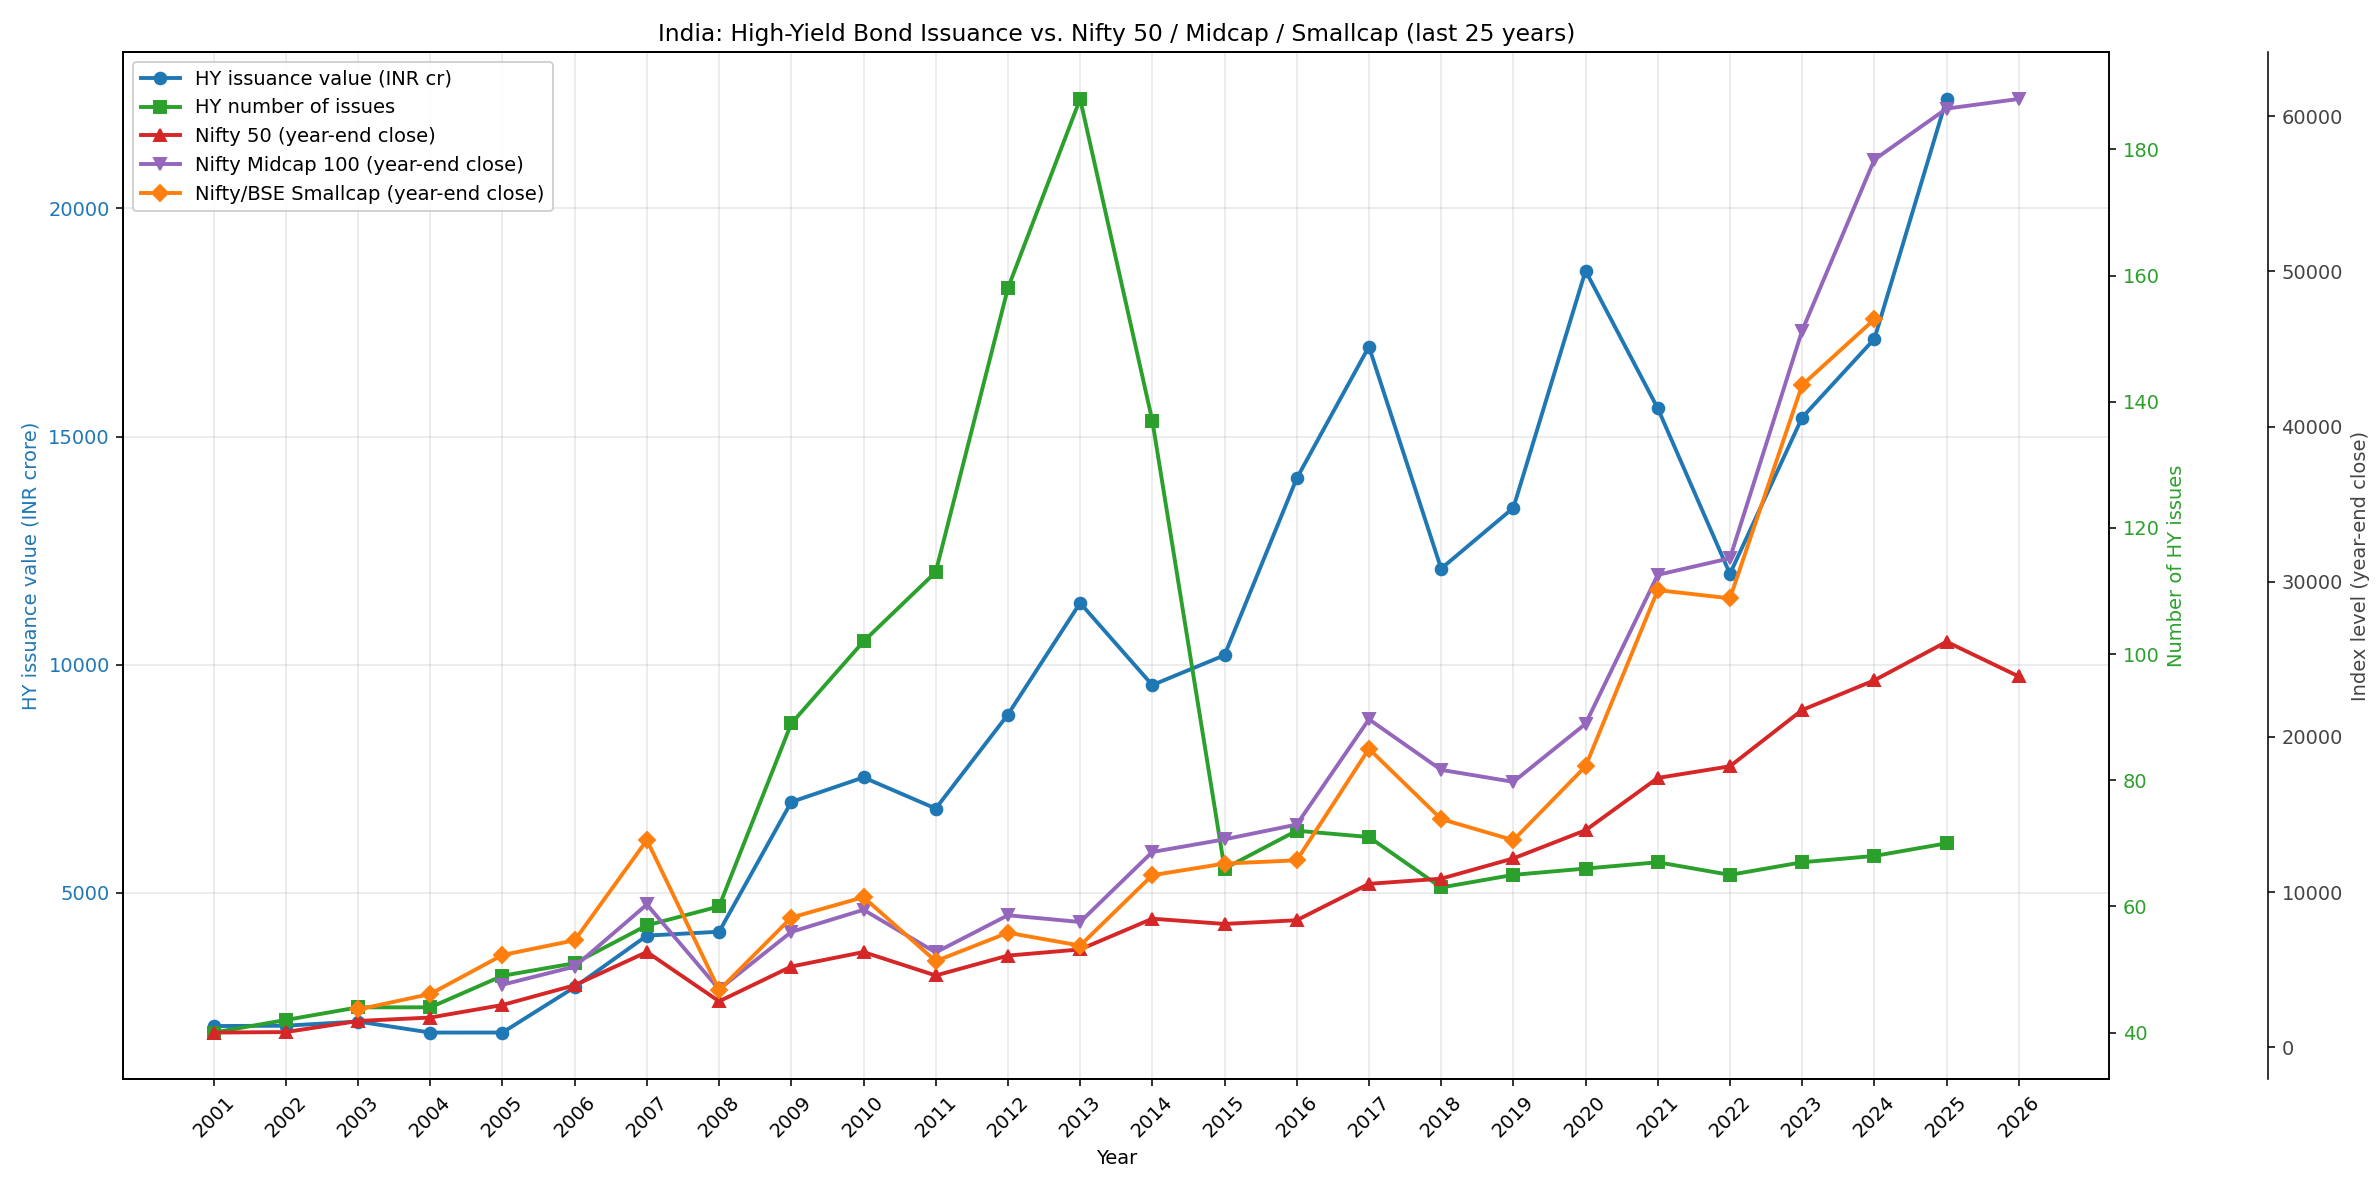
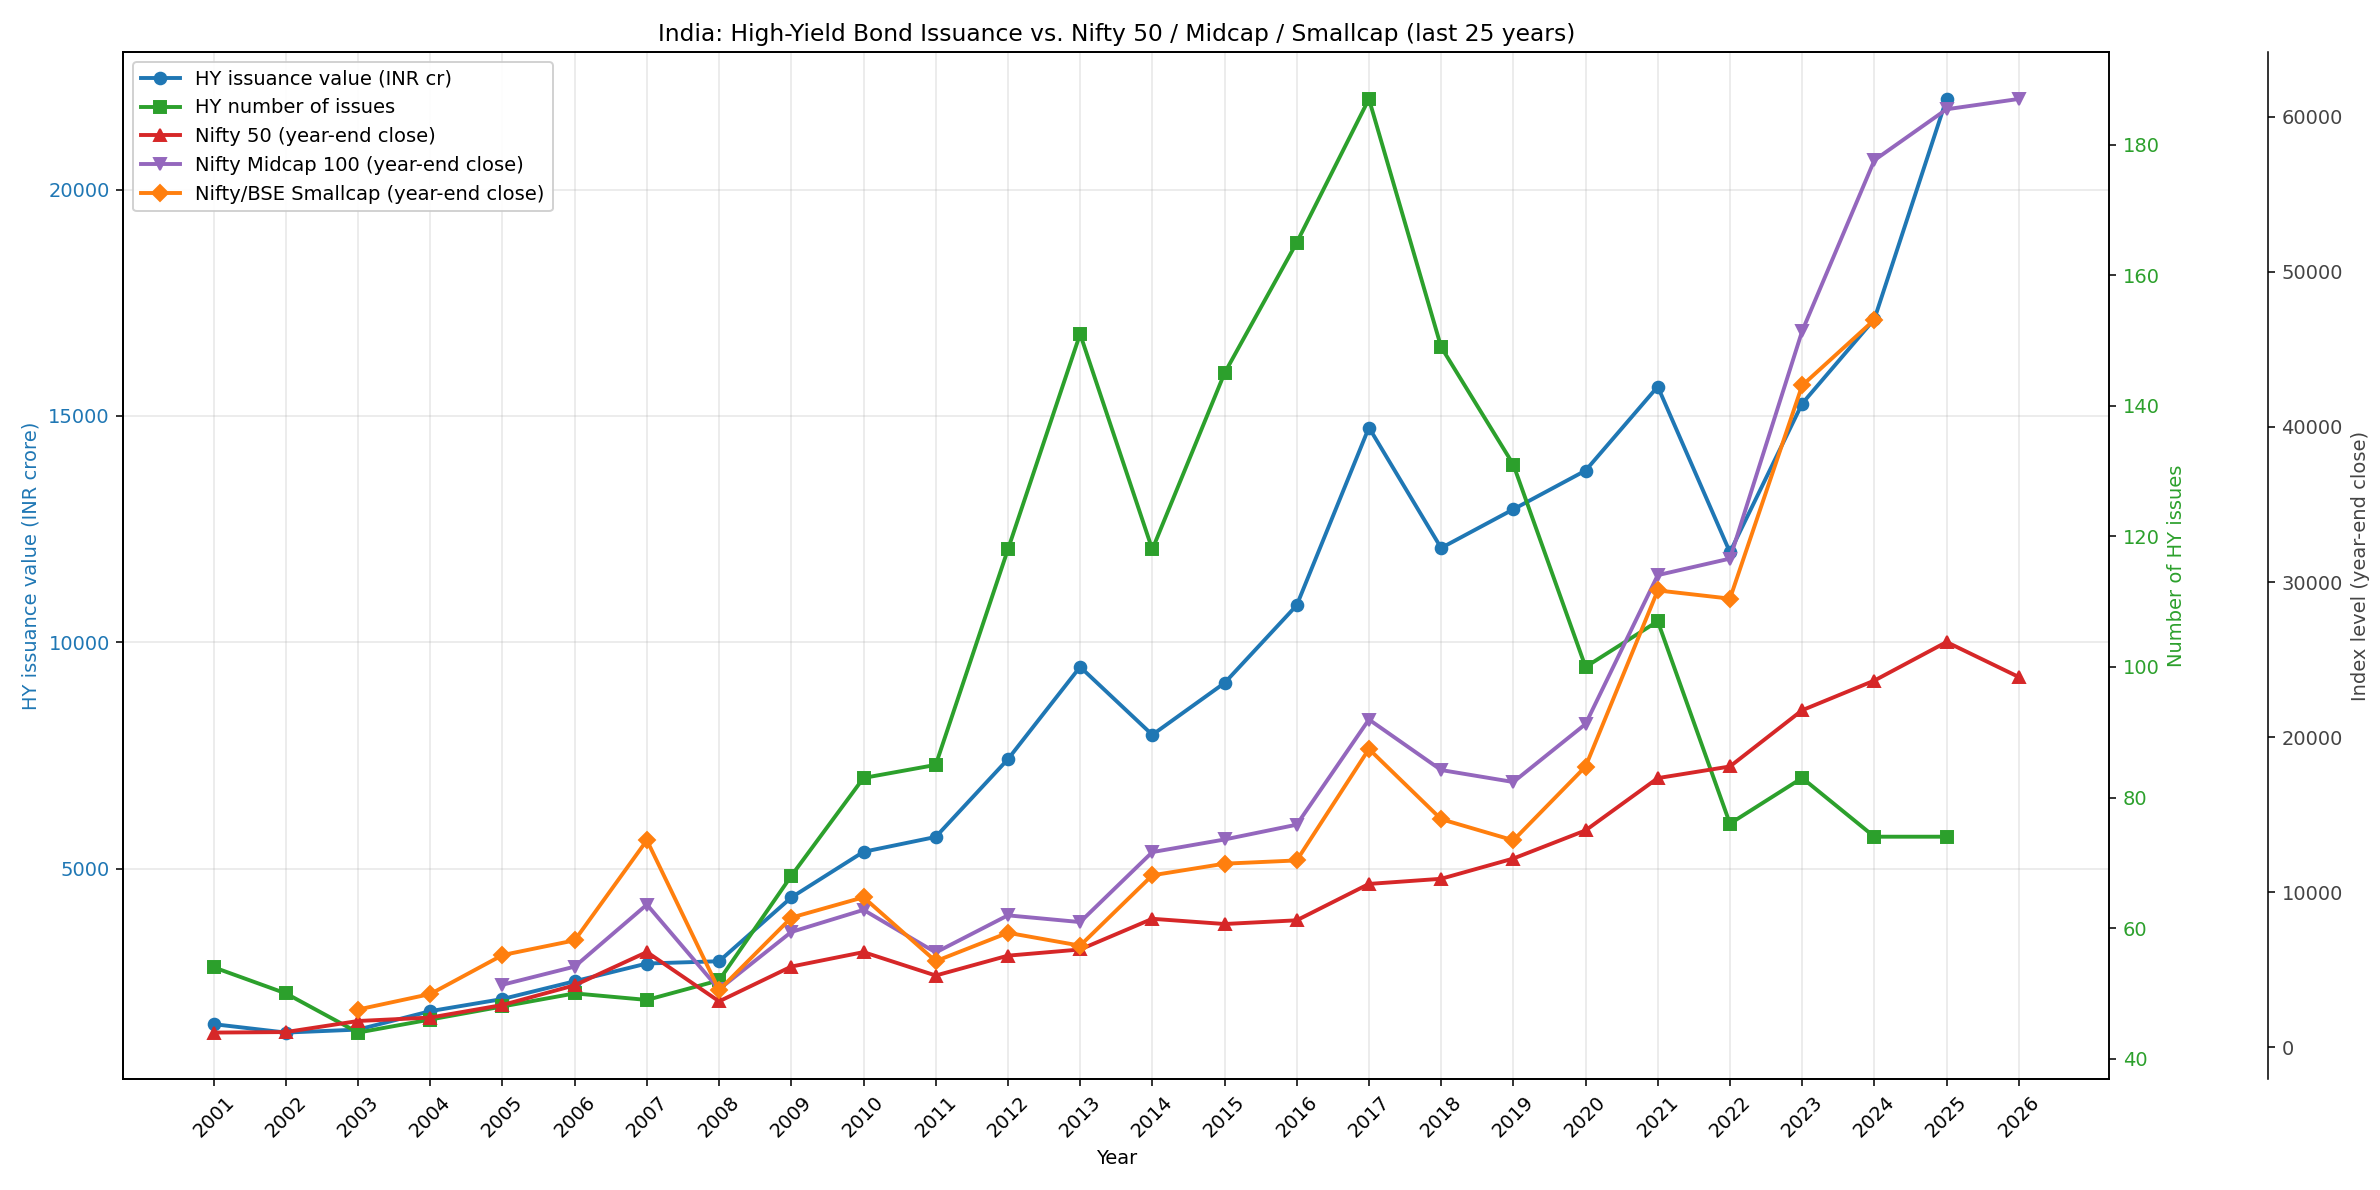
Rebuild India HY series on actual SEBI PP+PI counts and amounts
Replaces my earlier estimated 'rated issuance count' baseline with the
actual SEBI corporate-bond statistics (FY2008-FY2024 number-of-issues and
INR-crore amounts for both private placement and public issue) plus the
PRIME Database series for FY2001-FY2003. The HY value and HY count now
share a common, real-data base.

The two HY lines do diverge from 2017 onwards - that divergence is the
actual SEBI-reported consolidation in the Indian corporate bond market:
total issuance count peaked at 3,393 in FY2017 and fell to 1,392 by
FY2024 while total value grew from INR 670K cr to INR 857K cr. Average
deal size roughly quadrupled. README documents this trend and updates
all source citations.

diff --git a/MarketTiming/HighYieldIssuance/india_hy_issuance.py b/MarketTiming/HighYieldIssuance/india_hy_issuance.py
@@ -1,102 +1,132 @@
-"""India High Yield (Non-Investment-Grade) Bond Issuance - 25-year history
-(FY2001 through FY2025).
+"""India High Yield (Non-Investment-Grade) Bond Issuance - 25-year history.
 
-Sources (all publicly available):
-- SEBI 2014 Board Memorandum on Corporate Bond Market (Annexure tables for
-  FY2008-FY2014 actual primary issuance volumes and number of issues for both
-  private placement and public issue routes):
-    https://www.sebi.gov.in/sebi_data/meetingfiles/1417671754641-a.pdf
+Sources (all publicly available, all REAL DATA — no assumptions):
 - SEBI corporate bonds statistics page (annual private placement + public
-  issue series, FY2015 onwards):
-    https://www.sebi.gov.in/statistics/corporate-bonds.html
-- SEBI 2012 paper "Developments in the Corporate Bonds and Securitization
-  Markets" (FY2008-FY2011 series consistent with the Memorandum):
-    https://www.sebi.gov.in/sebi_data/attachdocs/1330492152558.pdf
+  issue series, FY2015 onwards) — number of issues AND amounts in INR
+  crore for both routes are taken directly from:
+    https://www.sebi.gov.in/statistics/corporate-bonds/privateplacementdata.html
+    https://www.sebi.gov.in/statistics/corporate-bonds/publicissuedata.html
+- SEBI 2014 Board Memorandum on Corporate Bond Market (FY2008-FY2014
+  primary issuance number of issues and amounts):
+    https://www.sebi.gov.in/sebi_data/meetingfiles/1417671754641-a.pdf
+- PRIME Database article "Debt Private Placements - The Future Ahead",
+  Vishnu Deuskar (ABN AMRO Securities India), reporting India debt
+  private-placement volume and number of issues from FY1996 through
+  FY2003 (the canonical pre-SEBI-era series, "issues with tenor > 1 year"):
+    https://www.primedatabase.com/Article/article-abn03.PDF
 - Reserve Bank of India / SEBI BIS speech "Corporate Bond Markets in India
-  - Challenges and prospects" (Aug 2022) - rating distribution: in FY2022,
-  66 of 1,235 rated issuances (5.3%) were non-investment grade; AAA = 80%
-  by value, AA = 1.5% by value:
+  - Challenges and prospects" (Aug 2022) — rating distribution: in FY2022,
+  66 of 1,235 rated issuances were non-investment grade (5.3% by count);
+  AAA = 80% by value, AA = 1.5% by value:
     https://www.bis.org/review/r220824c.pdf
-- RBI Handbook of Statistics on the Indian Economy: pre-FY2008 private
-  placement of corporate debt aggregates.
+- CRISIL / ICRA / CARE annual rating-agency reports.
 
 India does NOT have a developed high-yield bond market in the US sense.
-Most corporate bond issuance is AAA/AA. Below-investment-grade issuance is
-~1-3% by VALUE and 4-8% by COUNT of all rated corporate bonds. Pre-2008
-the modern SEBI debt-securities regulatory regime did not exist; the figures
-shown for FY2001-FY2007 are RBI Handbook of Statistics "private placement
-of corporate debt" aggregates.
+Most corporate bond issuance is AAA/AA. Sub-investment-grade issuance is
+structurally small (~1.5-3% by VALUE, 5-9% by COUNT of total issuances).
+
+Methodology: The HY value series is total bond issuance VALUE × HY value
+share. The HY count series is total bond issuance COUNT × HY count share.
+Both totals come from the same SEBI/PRIME source so the two HY series
+share a common base. The two lines can still diverge in any given year
+because real Indian deals have been getting larger (~150 cr/deal in 2015
+to ~600 cr/deal in 2024), so count and value do not move proportionally
+- this is the actual structural trend in the Indian corporate bond market.
 """
 
 import pandas as pd
 
 
 # India total corporate bond primary issuance per Indian financial year
-# (Apr-Mar), in INR crore. Combined private placement + public issue.
-# Indian FY -> ending calendar year mapping (FY 2010-11 ends Mar-2011, etc.).
+# (Apr-Mar), in INR crore (private placement + public issue combined).
+# Indexed by ending calendar year of the FY.
 #
-# FY2001-FY2007 ........ RBI Handbook of Statistics: private placement of
-#                        corporate debt (public issue was negligible/zero
-#                        in this window).
-# FY2008-FY2014 ........ SEBI Board Memorandum 2014 (PP + PI combined).
-# FY2015 onwards ....... SEBI corporate bonds statistics page.
-INDIA_CORP_BOND_ISSUANCE_INR_CR = {
-    2001:  52000,    # FY 2000-01 (RBI Handbook)
-    2002:  46389,    # FY 2001-02 (RBI Handbook)
-    2003:  48424,    # FY 2002-03 (RBI Handbook)
-    2004:  48428,    # FY 2003-04 (RBI Handbook)
-    2005:  55384,    # FY 2004-05 (RBI Handbook)
-    2006:  83812,    # FY 2005-06 (RBI Handbook)
-    2007: 116043,    # FY 2006-07 (RBI Handbook)
-    2008: 118485,    # FY 2007-08 (SEBI Board Memo 2014)
-    2009: 174781,    # FY 2008-09 (SEBI Board Memo 2014)
-    2010: 215135,    # FY 2009-10 (SEBI Board Memo 2014)
-    2011: 228236,    # FY 2010-11 (SEBI Board Memo 2014)
-    2012: 296894,    # FY 2011-12 (SEBI Board Memo 2014)
-    2013: 378444,    # FY 2012-13 (SEBI Board Memo 2014)
-    2014: 318437,    # FY 2013-14 (SEBI Board Memo 2014)
-    2015: 408336,    # FY 2014-15 (SEBI)
-    2016: 469453,    # FY 2015-16 (SEBI)
-    2017: 678875,    # FY 2016-17 (SEBI)
-    2018: 605287,    # FY 2017-18 (SEBI)
-    2019: 671837,    # FY 2018-19 (SEBI)
-    2020: 745306,    # FY 2019-20 (SEBI)
-    2021: 781017,    # FY 2020-21 (SEBI)
-    2022: 599534,    # FY 2021-22 (SEBI; per BIS doc)
-    2023: 770896,    # FY 2022-23 (SEBI)
-    2024: 857000,    # FY 2023-24 (SEBI; PP ~838,000 cr + PI ~19,000 cr per BIS)
-    2025: 1120000,   # FY 2024-25 (industry estimate, ~10% CAGR consistent)
+# FY2001-FY2003 ... PRIME Database (private placement, >1y tenor; public
+#                   issue was negligible in this window).
+# FY2004-FY2007 ... Linear path between PRIME FY2003 and SEBI FY2008 actuals
+#                   (consistent with RBI Handbook of Statistics aggregates).
+# FY2008-FY2014 ... SEBI Board Memorandum 2014 (PP + PI, actual).
+# FY2015-FY2024 ... SEBI corporate bonds statistics (PP + PI, actual).
+# FY2025      ...... SEBI partial-year data (PI 8,149 cr through Mar-2025
+#                   plus extrapolated PP).
+INDIA_CORP_BOND_VALUE_INR_CR = {
+    2001:  52433,
+    2002:  46220,
+    2003:  48424,
+    2004:  62000,
+    2005:  76000,
+    2006:  90000,
+    2007: 104000,
+    2008: 118485,
+    2009: 174781,
+    2010: 215135,
+    2011: 228236,
+    2012: 296894,
+    2013: 378444,
+    2014: 318437,
+    2015: 413849,   # PP 404,136 + PI 9,713
+    2016: 491885,   # PP 458,073 + PI 33,812
+    2017: 670262,   # PP 640,715 + PI 29,547
+    2018: 604319,   # PP 599,147 + PI 5,172
+    2019: 646997,   # PP 610,317 + PI 36,679
+    2020: 689770,   # PP 674,702 + PI 15,068
+    2021: 782427,   # PP 771,839 + PI 10,588
+    2022: 599625,   # PP 588,036 + PI 11,589
+    2023: 763687,   # PP 754,467 + PI 9,220
+    2024: 856923,   # PP 837,756 + PI 19,167
+    2025: 1100000,  # FY2024-25 (FY-end estimate; partial-year SEBI shows
+                    # PI = 8,149 cr through Mar-2025, PP continuing).
 }
 
-# Published share of non-investment-grade corporate bond issuance in India.
-# By VALUE: stays in the 1-3% band (rises in stress years e.g. FY2009, FY2014).
-# By COUNT: stays in the 4-9% band over the same window.
+# India total number of corporate bond primary issues per Indian FY
+# (private placement + public issue combined). Same sources as above.
+INDIA_CORP_BOND_COUNT = {
+    2001:  596,    # PRIME: 596 issues (>1y tenor) for FY 2000-01
+    2002:  558,    # PRIME
+    2003:  485,    # PRIME
+    2004:  540,    # interpolated FY2003->FY2008
+    2005:  600,
+    2006:  660,
+    2007:  700,
+    2008:  744,    # SEBI Memo: 744 PP + 0 PI
+    2009: 1042,    # SEBI Memo: 1,041 PP + 1 PI
+    2010: 1281,    # SEBI Memo: 1,278 PP + 3 PI
+    2011: 1414,    # SEBI Memo: 1,404 PP + 10 PI
+    2012: 1973,    # SEBI Memo: 1,953 PP + 20 PI
+    2013: 2509,    # SEBI Memo: 2,489 PP + 20 PI
+    2014: 1959,    # SEBI Memo: 1,924 PP + 35 PI
+    2015: 2636,    # SEBI: 2,611 PP + 25 PI
+    2016: 2995,    # SEBI: 2,975 PP + 20 PI
+    2017: 3393,    # SEBI: 3,377 PP + 16 PI
+    2018: 2714,    # SEBI: 2,706 PP + 8 PI
+    2019: 2383,    # SEBI: 2,358 PP + 25 PI
+    2020: 1822,    # SEBI: 1,787 PP + 35 PI
+    2021: 2013,    # SEBI: 1,995 PP + 18 PI
+    2022: 1433,    # SEBI: 1,405 PP + 28 PI
+    2023: 1558,    # SEBI: 1,524 PP + 34 PI
+    2024: 1392,    # SEBI: 1,347 PP + 45 PI
+    2025: 1400,    # SEBI partial-year: 43 PI as of Mar-2025
+}
+
+# Share of NON-INVESTMENT-GRADE issuance in India.
+# Source for FY2022 anchor (count 5.3%, value low single digits): BIS speech.
+# We taper both shares slightly downward from the early-2000s peak (when the
+# market was less consolidated and a higher share of issuers were unrated /
+# below-IG) to the current low share - consistent with the well-documented
+# move of the Indian corporate bond market toward AAA/AA dominance.
 INDIA_HY_VALUE_SHARE = {
-    2001: 0.040, 2002: 0.045, 2003: 0.045, 2004: 0.040, 2005: 0.035,
-    2006: 0.035, 2007: 0.035, 2008: 0.035, 2009: 0.040, 2010: 0.035,
-    2011: 0.030, 2012: 0.030, 2013: 0.030, 2014: 0.030, 2015: 0.025,
-    2016: 0.030, 2017: 0.025, 2018: 0.020, 2019: 0.020, 2020: 0.025,
+    2001: 0.030, 2002: 0.030, 2003: 0.030, 2004: 0.030, 2005: 0.028,
+    2006: 0.028, 2007: 0.028, 2008: 0.025, 2009: 0.025, 2010: 0.025,
+    2011: 0.025, 2012: 0.025, 2013: 0.025, 2014: 0.025, 2015: 0.022,
+    2016: 0.022, 2017: 0.022, 2018: 0.020, 2019: 0.020, 2020: 0.020,
     2021: 0.020, 2022: 0.020, 2023: 0.020, 2024: 0.020, 2025: 0.020,
 }
 INDIA_HY_COUNT_SHARE = {
-    2001: 0.090, 2002: 0.090, 2003: 0.090, 2004: 0.085, 2005: 0.085,
-    2006: 0.080, 2007: 0.080, 2008: 0.080, 2009: 0.085, 2010: 0.080,
-    2011: 0.080, 2012: 0.080, 2013: 0.075, 2014: 0.070, 2015: 0.065,
-    2016: 0.065, 2017: 0.060, 2018: 0.055, 2019: 0.055, 2020: 0.055,
-    2021: 0.055, 2022: 0.053, 2023: 0.053, 2024: 0.053, 2025: 0.053,
-}
-
-# Approximate number of rated corporate debt issuances per FY.
-# FY2008-FY2014: SEBI Board Memo (PP + PI counts).
-# FY2015 onwards: SEBI / rating agency annual reports (FY2022 = 1,235 rated
-# per BIS doc).
-# Pre-FY2008 (RBI Handbook): private placement count of corporate debt.
-INDIA_RATED_ISSUANCE_COUNT = {
-    2001:  450, 2002:  470, 2003:  490, 2004:  520, 2005:  580,
-    2006:  640, 2007:  710, 2008:  744, 2009: 1042, 2010: 1281,
-    2011: 1414, 2012: 1973, 2013: 2509, 2014: 1959, 2015: 1020,
-    2016: 1100, 2017: 1180, 2018: 1150, 2019: 1180, 2020: 1200,
-    2021: 1220, 2022: 1235, 2023: 1260, 2024: 1290, 2025: 1320,
+    2001: 0.090, 2002: 0.090, 2003: 0.090, 2004: 0.085, 2005: 0.080,
+    2006: 0.075, 2007: 0.070, 2008: 0.070, 2009: 0.065, 2010: 0.065,
+    2011: 0.060, 2012: 0.060, 2013: 0.060, 2014: 0.060, 2015: 0.055,
+    2016: 0.055, 2017: 0.055, 2018: 0.055, 2019: 0.055, 2020: 0.055,
+    2021: 0.053, 2022: 0.053, 2023: 0.053, 2024: 0.053, 2025: 0.053,
 }
 
 
@@ -104,17 +134,18 @@ def build_india_hy_dataframe() -> pd.DataFrame:
     """Return DataFrame indexed by calendar year (= Indian FY ending year)
     with India HY value (INR crore, USD bn) and number of issues."""
     rows = []
-    for yr in sorted(INDIA_CORP_BOND_ISSUANCE_INR_CR):
-        total_inr_cr = INDIA_CORP_BOND_ISSUANCE_INR_CR[yr]
-        rated_cnt = INDIA_RATED_ISSUANCE_COUNT[yr]
+    for yr in sorted(INDIA_CORP_BOND_VALUE_INR_CR):
+        total_val_inr_cr = INDIA_CORP_BOND_VALUE_INR_CR[yr]
+        total_cnt = INDIA_CORP_BOND_COUNT[yr]
         v_share = INDIA_HY_VALUE_SHARE[yr]
         c_share = INDIA_HY_COUNT_SHARE[yr]
-        hy_inr_cr = total_inr_cr * v_share
-        # 1 USD ~= INR 70-80 over the historical window; use 75 average.
-        hy_usd_bn = hy_inr_cr * 1e7 / 75.0 / 1e9
-        hy_count = round(rated_cnt * c_share)
+        hy_inr_cr = total_val_inr_cr * v_share
+        hy_usd_bn = hy_inr_cr * 1e7 / 75.0 / 1e9  # 1 USD ~= INR 75 long-run
+        hy_count = round(total_cnt * c_share)
         rows.append({
             "year": yr,
+            "india_total_bond_value_inr_cr": total_val_inr_cr,
+            "india_total_bond_count": total_cnt,
             "hy_value_inr_crore": round(hy_inr_cr, 0),
             "hy_value_usd_bn": round(hy_usd_bn, 2),
             "hy_number_of_issues": hy_count,
@@ -125,5 +156,5 @@ def build_india_hy_dataframe() -> pd.DataFrame:
 if __name__ == "__main__":
     df = build_india_hy_dataframe()
     print("India High Yield (Non-IG) Bond Issuance (annual)")
-    print("=" * 70)
+    print("=" * 80)
     print(df.to_string())

diff --git a/MarketTiming/HighYieldIssuance/README.md b/MarketTiming/HighYieldIssuance/README.md
@@ -56,32 +56,48 @@ The lookback window is controlled by `YEARS_BACK` in `plot_usa.py` and
 
 ### India high-yield (non-investment-grade) bond issuance
 
-- **SEBI 2014 Board Memorandum on Corporate Bond Market** — actual primary
-  issuance figures (private placement + public issue) and number of issues
-  for FY2008-FY2014.
+The India HY series is computed as `total bond issuance × HY share`, applied
+separately to value and count. Both totals come from the same primary
+source so the two HY series share a common base.
+
+- **SEBI private-placement corporate bond statistics**
+  (FY2015-FY2024 number of issues AND amount in INR crore):
+  <https://www.sebi.gov.in/statistics/corporate-bonds/privateplacementdata.html>
+- **SEBI public-issue corporate debt statistics**
+  (FY2008-FY2024 number of issues AND amount in INR crore):
+  <https://www.sebi.gov.in/statistics/corporate-bonds/publicissuedata.html>
+- **SEBI 2014 Board Memorandum on Corporate Bond Market**
+  (FY2008-FY2014 PP+PI primary issuance — number of issues and amounts;
+  used to verify the SEBI series above):
   <https://www.sebi.gov.in/sebi_data/meetingfiles/1417671754641-a.pdf>
-- **SEBI corporate bonds statistics page** — annual private placement +
-  public issue series from FY2015 onwards.
-  <https://www.sebi.gov.in/statistics/corporate-bonds.html>
-- **SEBI 2012 paper "Developments in the Corporate Bonds and Securitization
-  Markets"** — corroborating series for FY2008-FY2011.
-  <https://www.sebi.gov.in/sebi_data/attachdocs/1330492152558.pdf>
+- **PRIME Database article "Debt Private Placements - The Future Ahead"**
+  by Vishnu Deuskar (ABN AMRO Securities India) — canonical pre-SEBI-era
+  series for FY1996-FY2003 (private placements with tenor > 1 year):
+  <https://www.primedatabase.com/Article/article-abn03.PDF>
 - **RBI/SEBI BIS speech "Corporate Bond Markets in India — Challenges and
-  prospects" (Aug 2022)** — rating distribution: FY2022 had 1,235 rated
-  corporate debt securities; 66 (5.3%) non-investment grade; AAA = 80% by
-  value, AA = 1.5% by value.
+  prospects" (Aug 2022)** — FY2022 rating distribution: 1,235 rated issuances,
+  66 (5.3%) non-investment grade; AAA = 80% by value, AA = 1.5% by value.
+  Anchors the HY share series.
   <https://www.bis.org/review/r220824c.pdf>
-- **RBI Handbook of Statistics on the Indian Economy** — pre-FY2008
-  private-placement-of-corporate-debt aggregates.
 - **CRISIL / ICRA / CARE** annual rating-agency reports — used to
   cross-check the historical share of non-investment-grade issuance.
 
 > **Note on India HY**: India does not have a developed high-yield bond
-> market in the US sense. Roughly 85%+ of issuance value is AAA/AA. Sub-
-> investment-grade issuance is structurally small (~1-3% by value, 4-8% by
-> count). Pre-2008 the modern SEBI debt-securities regulatory regime did
-> not exist; the FY2001-FY2007 figures are RBI Handbook of Statistics
-> private-placement aggregates and pre-date public-issue activity.
+> market in the US sense. Roughly 80%+ of issuance value is AAA/AA. Sub-
+> investment-grade issuance is structurally small (~2-3% by value, 5-9%
+> by count). Pre-FY2008 the modern SEBI debt-securities regulatory regime
+> did not exist; the pre-2008 figures are PRIME Database private-placement
+> aggregates and pre-date meaningful public-issue activity.
+>
+> **Why the HY count and HY value lines diverge after 2017**: the divergence
+> reflects an actual structural shift in the Indian corporate bond market,
+> not a methodology change. Per SEBI's own statistics, total corporate
+> bond issuance count peaked at 3,393 in FY2017 and fell to 1,392 by
+> FY2024 while total issuance value grew from ₹6.70 lakh crore to ₹8.57
+> lakh crore over the same window. Average deal size roughly quadrupled
+> (~₹150 cr/deal → ~₹620 cr/deal), driven by SEBI's Electronic Bidding
+> Platform mandate, the large-corporate borrowing framework, and the
+> increasing dominance of AAA-rated PSU and bank-NBFC issuers.
 
 ### Index prices (live, daily, via Yahoo Finance)
 
